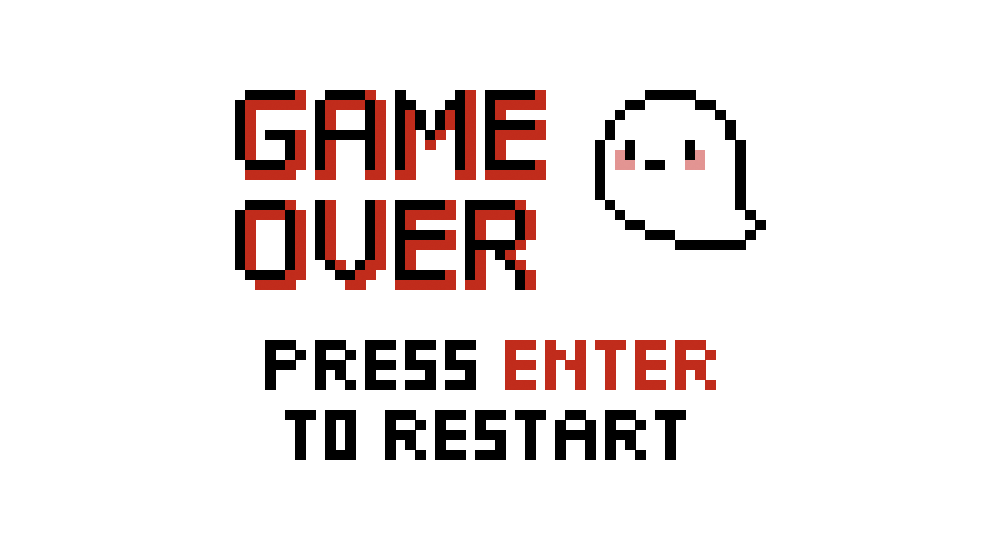
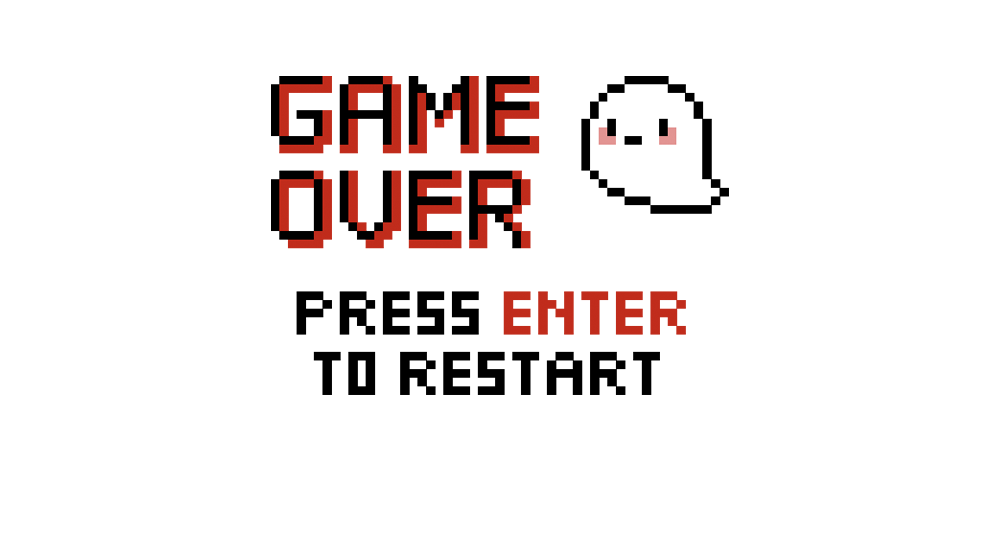
game

Changed region(s): [[0.217, 0.1236, 0.775, 0.8345]]

diff --git a/sketch/sketch.js b/sketch/sketch.js
@@ -7,6 +7,7 @@ let c4Img;
 let c5Img;
 
 let mImg;
+let gameoverImg;
 
 let b1Img;
 let b2Img;
@@ -21,9 +22,11 @@ let lost;
 let next;
 let spread;
 
+var gameOver;
 var gameState= "L0";
 
 function preload(){
+  gameoverImg = loadImage('https://thao-nguyen-design.github.io/sketch/gameover.png');
   menuImg = loadImage('https://thao-nguyen-design.github.io/sketch/menu.png');  
   c1Img = loadImage('https://thao-nguyen-design.github.io/sketch/character1.png');
   c2Img = loadImage('https://thao-nguyen-design.github.io/sketch/character2.png');
@@ -130,7 +133,7 @@ function draw() {
 }
   if (dinosaur.hits(o)) {
       console.log("Game Over!");
-      text('GAME OVER', width/2, height/2);
+      background(gameoverImg);
       lost = true;
       noLoop();
   }
@@ -163,7 +166,7 @@ function draw() {
 }
   if (dinosaur.hits(o)) {
       console.log("Game Over!");
-      text('GAME OVER', width/2, height/2);
+      background(gameoverImg);
       lost = true;
       noLoop();
   }

diff --git a/sketch/index.html b/sketch/index.html
@@ -6,7 +6,7 @@
   <!-- PLEASE NO CHANGES BELOW THIS LINE (UNTIL I SAY SO) -->
   <script language="javascript" type="text/javascript" src="libraries/p5.min.js"></script>
   <script language="javascript" type="text/javascript" src="dinosaur.js"></script>
-  <script language="javascript" type="text/javascript" src="p5js-temp-obstacle3506094842560286420.js"></script>
+  <script language="javascript" type="text/javascript" src="obstacle.js"></script>
   <script language="javascript" type="text/javascript" src="sketch.js"></script>
   <!-- OK, YOU CAN MAKE CHANGES BELOW THIS LINE AGAIN -->
   <script src="https://cdn.jsdelivr.net/gh/bmoren/p5.collide2D/p5.collide2d.min.js"></script>

diff --git a/sketch/obstacle.js b/sketch/obstacle.js
@@ -4,7 +4,7 @@ class Obstacle {
     this.h = 100;
     this.w = 100;
     this.x = width;
-    this.r = 230;
+    this.r = 210;
     this.y = height - this.r;
   }
   
@@ -15,7 +15,7 @@ class Obstacle {
   
 show (){
   //rect(this.x, this.y, this.w, this.h);
-  image(mImg, this.x, this.y, 130, 100);
+  image(mImg, this.x, this.y, 140, 110);
   //fill(255, 50);
   //rect(this.x, this.y, this.w, this.h);
   //ellipseMode(CORNER);
